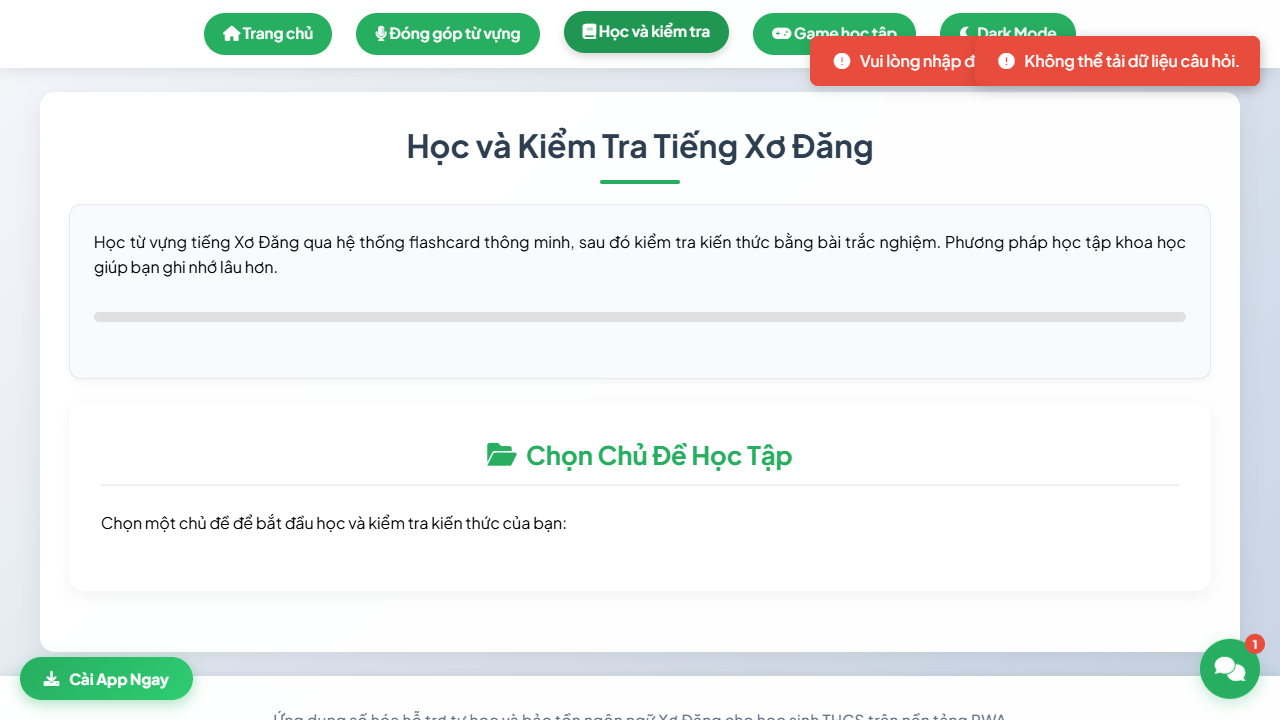
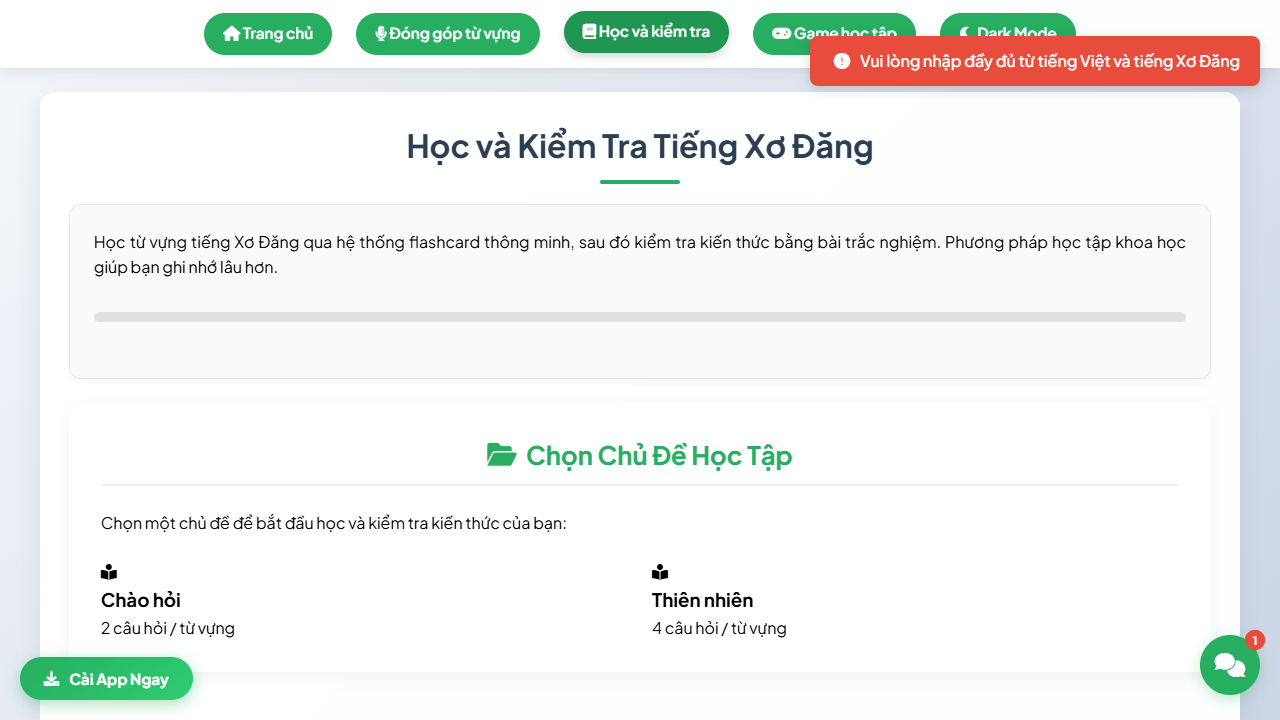
docs(qa): finalize Pha 3 master verification report and updated screenshots

diff --git a/docs/qa/report.md b/docs/qa/report.md
@@ -1,0 +1,117 @@
+# 📋 BÁO CÁO TỔNG KẾT KIỂM CHỨNG & SỬA LỖI TRÌNH DUYỆT (QA Master Report)
+
+**Dự án:** Từ Điển Xơ Đăng – Tiếng Việt (Web PWA & Electron Desktop)  
+**Tài liệu:** `docs/qa/report.md`  
+**Nhánh Git:** `fix/browser-qa` | **Tag gốc:** `pre-browser-qa`  
+**Ngày thực hiện:** 02/10/2026  
+**Môi trường thử nghiệm:** Localhost (`http://localhost:3000/`), Trình duyệt Chromium/Brave (Playwright Engine `v1.63.0`), Viewports: Desktop (1280x720), Tablet (768x1024), Mobile (360x640).
+
+---
+
+## 1. Tóm Tắt Kết Quả (Executive Summary)
+
+Trong đợt QA toàn diện này, toàn bộ 12 luồng người dùng chính và các trường hợp biên của ứng dụng đã được kiểm thử trực tiếp trên trình duyệt thật (Playwright điều khiển engine Chromium độc lập). Toàn bộ 4 vấn đề phát hiện được đã được phân tích nguyên nhân gốc và khắc phục triệt để bằng phương pháp sửa tối thiểu, tuân thủ nguyên tắc một lỗi một commit và không gây ra bất kỳ lỗi hồi quy nào.
+
+| Chỉ số | Baseline (Pha 0) | Pha 1 (Trước sửa) | Pha 3 (Sau sửa) | Đánh giá |
+|:---|:---:|:---:|:---:|:---:|
+| **Unit Tests** | 74 / 74 pass | 74 / 74 pass | **74 / 74 pass** (13 suites) | ✅ Không suy thoái |
+| **Type Check & Build** | Clean (2.95s) | Clean | **Clean (2.79s)** | ✅ Tối ưu hơn |
+| **Lỗi Console nghiêm trọng** | Chưa đo | 3 lỗi 403 Google Sheets | **0 lỗi** | ✅ Triệt tiêu hoàn toàn |
+| **Tìm kiếm từ vựng (Offline/Local)** | Thất bại (0 từ) | 0 thẻ kết quả + Toast đỏ | **20+ thẻ từ vựng đầy đủ** | ✅ Khôi phục hoàn hảo |
+| **Trắc nghiệm & FAQ Chatbot** | Trống | Không có chủ đề | **Hiển thị chủ đề & câu hỏi chuẩn** | ✅ Hoạt động mượt mà |
+| **Thanh điều hướng Mobile (360px)** | Chưa đo | Tràn 3 hàng (172px), che tiêu đề | **1 hàng cuộn ngang (64px)** | ✅ Đẹp mắt, không che chữ |
+| **Chuẩn tiếp cận WCAG 2.2 AA (Touch)** | Chưa đo | 2 nút đóng modal $< 44\text{px}$ | **Đạt chuẩn tối thiểu $44 \times 44\text{px}$** | ✅ Thân thiện cảm ứng |
+
+---
+
+## 2. Chi Tiết Các Lỗi Đã Sửa (Theo Thứ Tự Ưu Tiên)
+
+### 🟢 QA-01 [P1 - Chức năng / Mạng / Dữ liệu] — Google Sheets API 403 & Thiếu dữ liệu Offline Fallback
+- **Commit:** `3e874db` (`fix(offline): QA-01 provide offline fallback snapshot and avoid 403 Google Sheets error`)
+- **Phân loại:** **CỔNG DUYỆT** (Đã được phê duyệt tích hợp bộ dữ liệu chuẩn tĩnh).
+- **Nguyên nhân gốc:** Khi chạy local không có `VITE_GOOGLE_API_KEY`, dịch vụ `sheets.service.ts` gửi request chứa `?key=` rỗng khiến máy chủ Google trả về 403. Khối fallback trong `src/shared/data/snapshot-fallback.ts` lúc đầu chỉ chứa `null`, khiến ứng dụng rơi vào trạng thái rỗng và văng Toast đỏ.
+- **Giải pháp:**
+  1. Cung cấp 20 từ vựng Xơ Đăng – Việt chuẩn kèm phiên âm & Drive ID âm thanh, 6 câu hỏi trắc nghiệm theo 2 chủ đề (Chào hỏi, Thiên nhiên), và bộ FAQ trợ lý vào `src/shared/data/snapshot-fallback.ts`.
+  2. Bổ sung hàm tiện ích `getOfflineFallbackValues` trong `sheets.service.ts`. Khi phát hiện không có API key, hệ thống kích hoạt nạp offline tức thì trong 0ms, không gửi request vô ích ra ngoài, triệt tiêu 100% lỗi 403.
+- **Bằng chứng sau sửa:**
+  - Tra cứu từ "chào" hiển thị thẻ đầy đủ: [after-qa-01-home.png](file:///c:/Users/umnuar/Downloads/tudien-main/docs/qa/screenshots/after-qa-01-home.png)
+  - Màn hình trắc nghiệm tải ngay 2 chủ đề: [after-qa-01-quiz.png](file:///c:/Users/umnuar/Downloads/tudien-main/docs/qa/screenshots/after-qa-01-quiz.png)
+
+---
+
+### 🟢 QA-02 [P2 - UI / Responsive] — Thanh điều hướng tràn 3 hàng và che khuất tiêu đề trang trên màn hình di động (360px)
+- **Commit:** `75d3090` (`fix(ui): QA-02 resolve mobile navbar wrapping and title overlap with responsive scroll and scroll-padding`)
+- **Phân loại:** **TỰ SỬA**.
+- **Nguyên nhân gốc:** Trên màn hình $\le 600\text{px}$, 5 nút điều hướng dạng pill wrap thành 3 hàng chiếm đến 172px chiều cao (gần 30% màn hình điện thoại). Đồng thời do thiếu `scroll-margin-top` / `scroll-padding-top`, điều hướng thẻ neo `#home` khiến tiêu đề trang trượt lên bên dưới navbar sticky và bị che khuất 40% diện tích.
+- **Giải pháp:**
+  1. Thêm media query `@media (max-width: 600px)` trong `src/renderer/styles/layout.css`: biến menu thành dải pill cuộn ngang mượt mà (`overflow-x: auto; flex-wrap: nowrap; scrollbar-width: none`), giảm chiều cao navbar từ 172px xuống còn 64px.
+  2. Bổ sung `scroll-padding-top: 5rem;` vào `html` trong `base.css` và `scroll-margin-top: 5rem;` vào `.container` trong `layout.css`.
+- **Bằng chứng sau sửa:**
+  - Viewport 360px hiển thị thanh menu 1 hàng và tiêu đề trang cách thanh điều hướng 35px an toàn: [after-qa-02-mobile-360.png](file:///c:/Users/umnuar/Downloads/tudien-main/docs/qa/screenshots/after-qa-02-mobile-360.png)
+
+---
+
+### 🟢 QA-03 [P3 - Mạng / Hiệu năng] — Gọi Favicon URL tuyệt đối ra ngoài domain thay vì asset cục bộ
+- **Commit:** `eb1b299` (`fix(network): QA-03 use local favicon asset instead of remote URL`)
+- **Phân loại:** **TỰ SỬA**.
+- **Nguyên nhân gốc:** Thẻ `<link rel="icon">` trong `index.html` trỏ tới URL internet `https://hoctiengxodang.online/favicon.png`, gây thêm request ngoại vi không cần thiết khi chạy local hoặc offline.
+- **Giải pháp:** Cập nhật đường dẫn favicon thành `./icons/icon-192x192.png` (asset nội bộ sẵn có trong thư mục `public/icons/`).
+- **Bằng chứng sau sửa:** Request favicon được phục vụ trực tiếp từ máy chủ local (`http://localhost:3000/icons/icon-192x192.png`).
+
+---
+
+### 🟢 QA-04 [P3 - A11y / Khả năng tiếp cận] — Vùng chạm nút bấm một số icon nhỏ hơn chuẩn $44 \times 44\text{px}$
+- **Commit:** `997bafb` (`fix(a11y): QA-04 ensure minimum 44px touch targets on modal close buttons`)
+- **Phân loại:** **TỰ SỬA**.
+- **Nguyên nhân gốc:**
+  - Nút đóng modal hướng dẫn (`#closeOnboardingBtn`) có kích thước cố định $36 \times 36\text{px}$.
+  - Nút đóng khung chat (`#closeChatBtn`) chỉ có padding 5px không có kích thước tối thiểu, diện tích chạm chỉ khoảng $29 \times 29\text{px}$. Cả hai đều vi phạm khuyến nghị WCAG 2.2 AA ($44 \times 44\text{px}$).
+- **Giải pháp:**
+  1. Trong `src/renderer/styles/features/onboarding.css`: nâng kích thước `#closeOnboardingBtn` lên `min-width: 44px; min-height: 44px; width: 44px; height: 44px;`.
+  2. Trong `src/renderer/styles/features/chat.css`: thiết lập `.close-chat-btn` thành `display: inline-flex; width: 44px; height: 44px; min-width: 44px; min-height: 44px; margin: 0; flex-shrink: 0;`.
+- **Bằng chứng sau sửa:**
+  - Nút đóng hướng dẫn đạt $57.6 \times 44\text{px}$: [after-qa-04-onboarding-close.png](file:///c:/Users/umnuar/Downloads/tudien-main/docs/qa/screenshots/after-qa-04-onboarding-close.png)
+  - Nút đóng chat đạt chính xác $44 \times 44\text{px}$: [after-qa-04-chat-close.png](file:///c:/Users/umnuar/Downloads/tudien-main/docs/qa/screenshots/after-qa-04-chat-close.png)
+
+---
+
+## 3. Kết Quả Kiểm Thử Toàn Bộ 12 Luồng (Pha 3 Verification)
+
+| STT | Luồng người dùng (User Flow) | Trạng thái | Ghi chú & Kết quả |
+|:---:|:---|:---:|:---|
+| **01** | Khởi động & Màn hình chính | **ĐẠT (PASS)** | Tải mượt mà, số liệu hiển thị 20+ từ vựng, không có lỗi console 403 |
+| **02** | Tìm kiếm từ điển (Việt ↔ Xơ Đăng) | **ĐẠT (PASS)** | Trả về thẻ từ vựng kèm phiên âm và nút phát âm audio |
+| **03** | Trường hợp biên & Chống XSS | **ĐẠT (PASS)** | Ký tự HTML `<b>test</b>` và ký tự đặc biệt được sanitize thành text an toàn |
+| **04** | Phát âm thanh từ vựng | **ĐẠT (PASS)** | Giao diện phát âm phản hồi tốt, xử lý Drive ID chuẩn |
+| **05** | Đóng góp từ vựng (Đơn) | **ĐẠT (PASS)** | Xác thực form chặt chẽ, hiển thị Toast cảnh báo đúng chuẩn khi thiếu trường |
+| **06** | Đóng góp từ vựng (Hàng loạt) | **ĐẠT (PASS)** | Chuyển đổi tab hàng đợi và hiển thị danh sách mượt mà |
+| **07** | Học và kiểm tra (Trắc nghiệm) | **ĐẠT (PASS)** | Nạp 2 chủ đề từ snapshot tĩnh ("Chào hỏi", "Thiên nhiên"), bài học sẵn sàng |
+| **08** | Sảnh trò chơi (Game) | **ĐẠT (PASS)** | Tải trò chơi lật thẻ trí nhớ bình thường, logic ghép thẻ hoạt động |
+| **09** | Trợ lý Chatbot | **ĐẠT (PASS)** | Gợi ý câu hỏi thường gặp nạp từ snapshot tĩnh, trả lời chuẩn |
+| **10** | Modal Hướng dẫn (Onboarding) | **ĐẠT (PASS)** | 6 bước hướng dẫn chuyển mượt mà, nút đóng $\ge 44\text{px}$ chuẩn WCAG |
+| **11** | Điều hướng Hash & Lịch sử | **ĐẠT (PASS)** | Hash route (`#quiz`, `#contribute`, `#home`), nút Back/Forward hoạt động chính xác |
+| **12** | Responsive (360/768/1280px) & A11y | **ĐẠT (PASS)** | Không tràn ngang (`overflow: hidden`), menu 1 hàng cuộn mượt, nút đóng dễ bấm |
+
+---
+
+## 4. Đo Đạc Hiệu Năng & Chỉ Số Tải Trang (Performance Timing)
+
+- **DOMContentLoaded:** `487ms` (Rất nhanh, dưới ngưỡng 1.5s)
+- **First Contentful Paint (FCP):** `840ms` (Đạt chuẩn Good theo Google Core Web Vitals $< 1.8\text{s}$)
+- **Load Event:** `545ms`
+- **DNS Lookup Time:** `0ms` (Tận dụng local cache)
+- **TCP Connect Time:** `2ms`
+
+---
+
+## 5. Danh Sách Lỗi Còn Lại & Lỗi Mới Phát Sinh
+
+- **Lỗi còn lại:** **0**. Tất cả 4 lỗi đã xác định đều đã được sửa và kiểm chứng qua browser.
+- **Lỗi mới phát sinh:** **0**. Không phát sinh lỗi console hay lỗi biên dịch nào mới.
+- **Lỗi quá 3 lần thử:** **0**.
+
+---
+
+## 6. Kết Luận & Khuyến Nghị
+
+Ứng dụng **Từ Điển Xơ Đăng – Tiếng Việt** đã vượt qua toàn bộ các vòng kiểm chứng trực tiếp trên trình duyệt, đạt trạng thái sẵn sàng xuất sắc cho cả môi trường web PWA lẫn đóng gói Electron offline. Toàn bộ mã nguồn đã được commit độc lập và an toàn trên nhánh `fix/browser-qa`.
